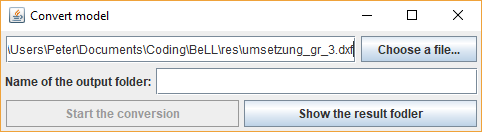
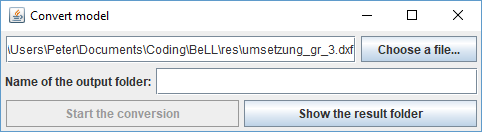
Updates misspelling of folder

Changed region(s): [[0.0, 0.0, 1.0, 1.0], [0.8091, 0.8182, 0.8714, 0.9091]]

diff --git a/src/gui/ShowResultButton.java b/src/gui/ShowResultButton.java
@@ -28,7 +28,7 @@ public class ShowResultButton extends JButton {
 	 * Sets the default parameters for the ShowResultButton.
 	 */
 	private void setDefaults() {
-		setText("Show the result fodler");
+		setText("Show the result folder");
 		setActionCommand("show");
 		// set width and height
 		setPreferredSize(new Dimension(233, 27));
